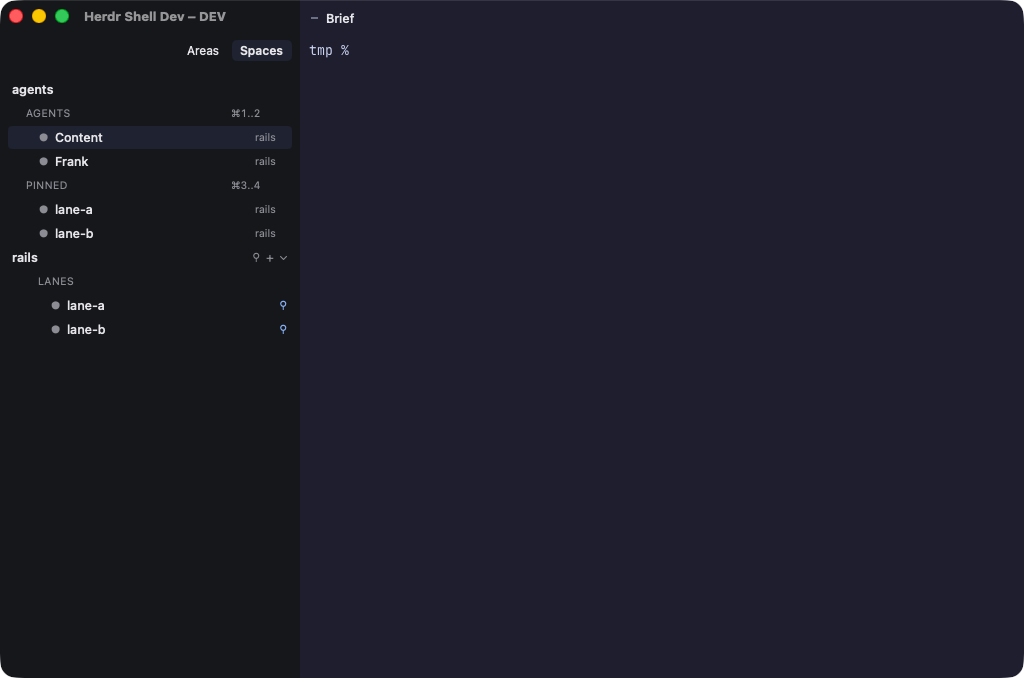
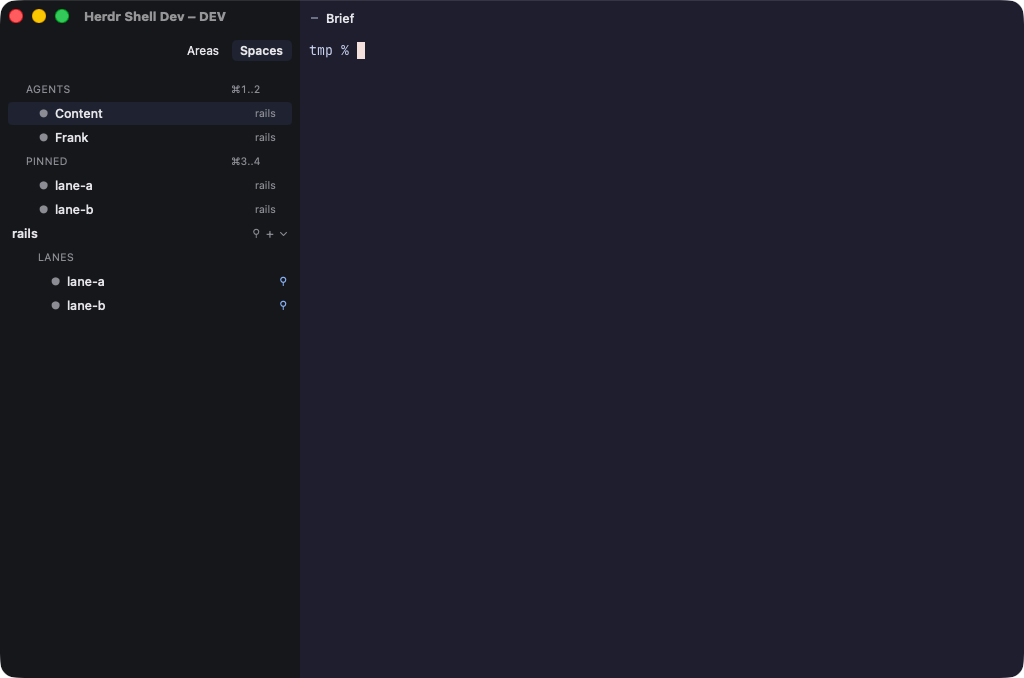
fix(shell): drop the agents title row above the agents section

diff --git a/macos/HerdrShell/Sources/HerdrShell/SpacesTree.swift b/macos/HerdrShell/Sources/HerdrShell/SpacesTree.swift
@@ -161,7 +161,6 @@ enum SpacesTree {
         }
     }
     static func build(_ input: SpacesInput, overlay: Overlay, chrome: SpacesChrome, now: Double) -> [SpacesRow] {
-        var out = [SpacesRow(id: "agents", kind: .title, title: "agents")]
         let choices = overlay.goalChoices
         let filter = chrome.goalFilter.flatMap { choices.contains($0) ? $0 : nil }
         func hint(start: Int, count: Int) -> String {
@@ -181,6 +180,8 @@ enum SpacesTree {
         }
         let agents = pinTabs(input.tabs, agents: true)
         let pins = pinTabs(input.tabs, agents: false)
+        // The AGENTS section heads the list itself; an "agents" title above it reads twice.
+        var out = agents.isEmpty ? [SpacesRow(id: "agents", kind: .title, title: "agents")] : []
         if !agents.isEmpty {
             out.append(SpacesRow(id: "agentpins", kind: .section, title: "AGENTS", trailing: hint(start: 1, count: agents.count)))
             out += agents.map { pinRow($0, prefix: "agent:") }

diff --git a/macos/HerdrShell/scripts/check_agents_section.py b/macos/HerdrShell/scripts/check_agents_section.py
@@ -41,6 +41,7 @@ with tempfile.TemporaryDirectory(prefix='agents-section-') as directory:
         return next((r.split('|') for r in rows if r.split('|')[1] == row_id), None)
     def at(row_id):
         return next((i for i, r in enumerate(rows) if r.split('|')[1] == row_id), -1)
+    check('agents title row omitted above the AGENTS section', at('agents') == -1 and rows[2].split('|')[1] == 'agentpins')
     check('AGENTS precedes PINNED (remote agent before local plain pin)', 0 <= at('agentpins') < at('agent:ax42/w1:t1') < at('pinned') < at('pinned:s1:t1'))
     check('agent appears once, only in AGENTS', sum('ax42/w1:t1' in r.split('|')[1] for r in rows if r.startswith('tab|')) == 1 and at('tab:ax42/w1:t1') == -1)
     check('section shortcut hints start at their numbered slots', field('agentpins')[7] == '⌘1' and field('pinned')[7] == '⌘2')
@@ -55,7 +56,7 @@ with tempfile.TemporaryDirectory(prefix='agents-section-') as directory:
         for tab in machine['tabs']:
             tab.pop('role', None)
     rows = dump(fixture)
-    check('older snapshots have no AGENTS section', at('agentpins') == -1)
+    check('older snapshots have no AGENTS section and keep the agents title row', at('agentpins') == -1 and rows[2].split('|')[1] == 'agents')
     fixture['input']['tabs'][0]['role'] = 'future-role'
     rows = dump(fixture)
     check('unknown roles remain plain', at('agentpins') == -1 and at('pinned:s1:t1') >= 0)

diff --git a/macos/HerdrShell/scripts/check_agents_space.py b/macos/HerdrShell/scripts/check_agents_space.py
@@ -107,6 +107,7 @@ def main():
     expected = ["agentpins", "agent:" + content, "agent:" + frank, "pinned", "pinned:" + lane_a, "pinned:" + lane_b]
     check("AGENTS section and rows precede PINNED section and rows",
           [row for row in ids if row in expected] == expected)
+    check("no agents title row above the AGENTS section", "agents" not in ids and ids[:1] == ["agentpins"])
     check("Content and Frank are absent as plain space tab rows", all("tab:" + t not in ids for t in (content, frank)))
     assert_order("initial", state, ws, [content, frank], pins)
     tabs = {t["tab_id"]: t for t in server_tabs(ws)}
